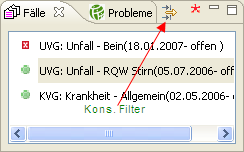
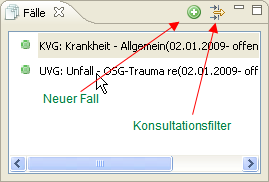
[svn] heute view, andere Neureungen

diff --git a/dokumentation/views/konsviews.tex b/dokumentation/views/konsviews.tex
@@ -8,7 +8,7 @@
 % * Contributors:
 % *    G. Weirich - initial implementation
 % *
-% *  $Id: konsviews.tex 3329 2007-11-07 17:44:06Z rgw_ch $
+% *  $Id: konsviews.tex 4899 2009-01-02 17:49:30Z rgw_ch $
 % *******************************************************************************
 % !Mode:: "TeX:UTF-8" (encoding info for WinEdt)
 
@@ -18,7 +18,7 @@
 \subsection{Fälle}
 Diese View (Abb. \ref{fig:faelle2} listet alle für den aktuell selektierten
 Patienten existierenden Fälle. \index{Fall-Liste}
-\begin{wrapfigure}{l}{6.5cm}
+\begin{wrapfigure}{l}{6.8cm}
   \includegraphics{images/faelleview}
   \caption{Fälle - View}
   \label{fig:faelle2}
@@ -60,6 +60,7 @@ folgenden Punkte:
 
 
 \clubpenalty=5000
+
 \subsection{Fälle und Kons}
  %\usepackage{graphics} is needed for \includegraphics
 \begin{wrapfigure}{l}{7cm}
@@ -157,13 +158,11 @@ Es können auch einige einfache Textauszeichnungen gemacht werden: Ein Wort am A
 
 \subsection{AUF}
 Diese View dient der Festlegung einer Arbeitsunfähigkeit. (Abb \ref{fig:auf})
-\index{AUF} \index{Arbeitsunfähigkeit}. %\usepackage{graphics} is needed for \includegraphics
-\begin{figure}[htp]
-\begin{center}
+\index{AUF} \index{Arbeitsunfähigkeit}. 
+\begin{figure}
   \includegraphics{images/aufview}
   \caption{AUF-View}
   \label{fig:auf}
-\end{center}
 \end{figure}
 Eine AUF bezieht sich immer auf einen bestimmten Fall. Wenn kein Fall markiert
 ist, werden Sie aufgefordert, zunächst einen anzugeben.
@@ -176,7 +175,7 @@ definitiv ausdrucken oder aufs Fax senden.
 
 \subsection{Rezepte}
 In dieser View werden Rezepte aufgenommen. \index{Rezept}Klicken Sie auf das \glqq Neu\grqq
--Symbol (roter Stern) und es wird ein neues Rezept mit dem Aktuellen Datum
+-Symbol (grünes plus) und es wird ein neues Rezept mit dem Aktuellen Datum
 erstellt. Ziehen Sie Artikel mittels Drag\&Drop aus einer Artikelliste oder der
 Dauermedikations-View in dieses Rezept. Mit Klick auf das \glqq Drucker\grqq -
 Symbol öffnen Sie eine Text-View, in der Sie noch manuelle Änderungen anbringen
@@ -187,15 +186,18 @@ existieren, welche an einer Stelle den Platzhalter [Rezeptzeilen] enthält. Dort
 werden die ausgewählten Artikel eingefügt.
 
 \subsection{Heute}
+\begin{wrapfigure}{l}{7cm}
+\includegraphics[width=6.5cm]{images/heute}
+\end{wrapfigure}
 Diese View dient dazu, Konsultationen eines bestimmten Zeitraums (standardmässig
 des aktuellen Tages) darzustellen. Sie gibt einen Überblick über Verrechnung und
 verrechnete Zeit jeder Konsultation einzeln und der Summe davon, Dies eignet
-sich beispielsweise, um abends die Abrechnungen des Tages nachzukontrollieren.
+sich beispielsweise, um abends die Abrechnungen des Tages nachzukontrollieren. DUch anklicken der entsprechenden Chec
 
 \subsection{Falldetail}
 \label{falldetail}
 \index{Fall!Detailansicht}
-Diese View (Abb. \ref{fig:falldetail}) dient zum Einstellen der Details eines Falls (Eine Dialogbox mit derselben View wird geöffnet, wenn man einen neuen Fall (s. \ref{definition:fall} S. \pageref{definition:fall}) erstellt). 
+Diese View (Abb. \ref{fig:falldetail}) dient zum Einstellen der Details eines Falls (Eine Dialogbox mit derselben View wird geöffnet, wenn man einen neuen Fall (s. \ref{definition:fall} S. \pageref{definition:fall}) erstellt).
 \begin{figure}
   % Requires \usepackage{graphicx}
   \includegraphics[width=0.8\textwidth]{images/falldetail}\\
@@ -206,7 +208,7 @@ In der obersten Auswahlbox geben Sie an, welches Abrechnungssystem (S. auch \ref
 Das \textbf{Startdatum} ist üblicherweise das Datum der ersten Konsultation, oder bei Unfällen, das Unfalldatum. Das \textbf{Enddatum} hingegen bezeichnet das Datum, wen der Fall abgeschlossen wird. Ein Fall, welcher ein Enddatum hat, wird in der Fall-Liste (Abb. \ref{fig:faelle2}) als 'GESCHLOSSEN' markiert. Zu einem solchen Fall können keine Konsultationen mehr erstellt werden.
 In der Regel sollte ein Fall nur abgeschlossen werden, wenn es ein Unfall ist, welcher abgeschlossen ist, oder wenn der Patient den Versicherer wechselt und die Abrechnungsdaten darum ändern.
 
-Die nächste Zeile, Rechnungsempfänger, ist zwingend, damit überhaupt eine Rechnung erstellt werden kann. Dies muss ein bereits existierender Kontakt (z.B. der Patient selbst) sein. 
+Die nächste Zeile, Rechnungsempfänger, ist zwingend, damit überhaupt eine Rechnung erstellt werden kann. Dies muss ein bereits existierender Kontakt (z.B. der Patient selbst) sein.
 
 \medskip
 Alle weiteren Zeilen sind je nach gewähltem Abrechnungssystem unterschiedlich. Oft wird auch eine Zeile 'Kostenträger' vorhanden sein \footnote{Wichtige Anmerkung für das \textbf{Tarmed-System} (Schweiz): Wenn Rechnungsempfänger und Kostenträger identisch sind, wird eine Tiers Payant-Rechnung erstellt, andernfalls eine Tiers-Garant-Rechnung. Achten Sie also darauf, dass diese beiden Zeilen korrekt sind (Bei UVG-Fällen müssen also sowohl Rechnungsempfänger als auch Kostenträger der jeweilige Unfallversicherer sein, während bei KVG-Fällen in TG-Kantonen der Patient der Rechnungsempfänger und die Krankenkasse der Kostenträger ist)}.

diff --git a/dokumentation/views/stammdaten.tex b/dokumentation/views/stammdaten.tex
@@ -8,7 +8,7 @@
 % * Contributors:
 % *    G. Weirich - initial implementation
 % *
-% *  $Id: stammdaten.tex 4898 2009-01-02 15:15:33Z rgw_ch $
+% *  $Id: stammdaten.tex 4899 2009-01-02 17:49:30Z rgw_ch $
 % *******************************************************************************
 % !Mode:: "TeX:UTF-8" (encoding info for WinEdt)
 
@@ -130,7 +130,7 @@ Patienten resp. der momentan ausgewählten Patientin an
 
 \end{figure}
 
-Sie sehen, dass die einzelnen Einträge grau erscheinen und icht geändert werden können . Wenn Sie auf das Schloss-Symbol rechts oben klicken, können Sie die View entsperren (sofern Sie die entsprechenden Rechte besitzen). Dann können 
+Sie sehen, dass die einzelnen Einträge grau erscheinen und icht geändert werden können . Wenn Sie auf das Schloss-Symbol rechts oben klicken, können Sie die View entsperren (sofern Sie die entsprechenden Rechte besitzen). Dann können
 alle Felder können durch einfaches Überschreiben geändert werden. Eine
 Änderung wird in dem Moment gespeichert, in dem ein Feld wieder verlassen wird.
 (Explizites Speichern ist in Elexis nie notwendig). Bei erneutem Klick auf das Schloss, oder bei Auswahl eines anderen Patienten, wird die Sicherung gegen versehentliches Überschreiben wieder eingeschaltet.
@@ -168,7 +168,7 @@ Titel sichtbar, durch Klick darauf öffnet sich das Feld.
   können direkt beschrieben werden und werden wie gewohnt sofort beim Verlassen
   gespeichert.
   \item Das Feld \glqq Fixmedikation\grqq{}entspricht der View Fixmedikation.
-  \item Das Feld \glqq Reminders\grqq{} zeigt die Reminders zum aktuellen Patienten.
+
 \end{itemize}
 \subsection{Kontakte}
 Diese View (Abb. \ref{fig:kontaktlist}) zeigt eine Liste aller in Elexis
@@ -205,6 +205,16 @@ ein Kontakt natürlich nur entweder eine Organisation oder aber eine Person sein
 Achten Sie darauf, dies und bei Personen auch das Geschlecht (m oder w) korrekt
 zu erfassen, da Textformatvorlagen diese Informationen auswerten, um die
 korrekten Formulierungen auszuwählen.
+
+\medskip
+
+Das Feld 'Kürzel/ID' enthält bei Patienten die Patientennummer und sollte daher nicht geändert werden. Bei anderen Kontakten kann es sinnvoll sein, hier ein Kürzel zum schnellen auffinden einzusetzen. Beispielsweise könnten Ärzte mit der präfix 'az', gefolgt von der Spezialität gefolgt von den Initialen eingetragen werden, Krankenkassen mit der Präfix 'kk' etc. So wäre der Internist Dr. Erst Meier beispielsweise als azInnEM gespeichert, die Swica Schaffhausen als kkSwicaSH. Die EInträge müssen nicht eindeutig sein und man muss das auch nicht so zu machen; es hilft einem lediglich z.B. beim Briefe schreiben rascher den Adressaten zu finden etc.
+
+\medskip
+
+Das Feld 'Externe ID' dient dazu eine im Prinzip beliebig grosse Anzahl von extern vergebenen Identifikationen (XID) festzuhalten. Durch Klick auf das blaue 'Externe ID' öffnet sich ein Dialog in dem alle eingetragenen XID's dargestellt werden. Im Kontaktdetail angezeigt wird immer der 'beste' d.h. 'eindeutigste' der zur Verfügung stehenden Identifikatoren. Beispiele für XID's sind etwa EAN, BAG-Nummer, Sozialversicherungsnummer/AHV-Nummer etc.
+
+\medskip
 
 In der untersten Zeile steht die Postanschrift des betreffenden Kontakts. Dies
 ist die Adresse, wie sie beispielsweise im Adressfeld von Briefen oder
